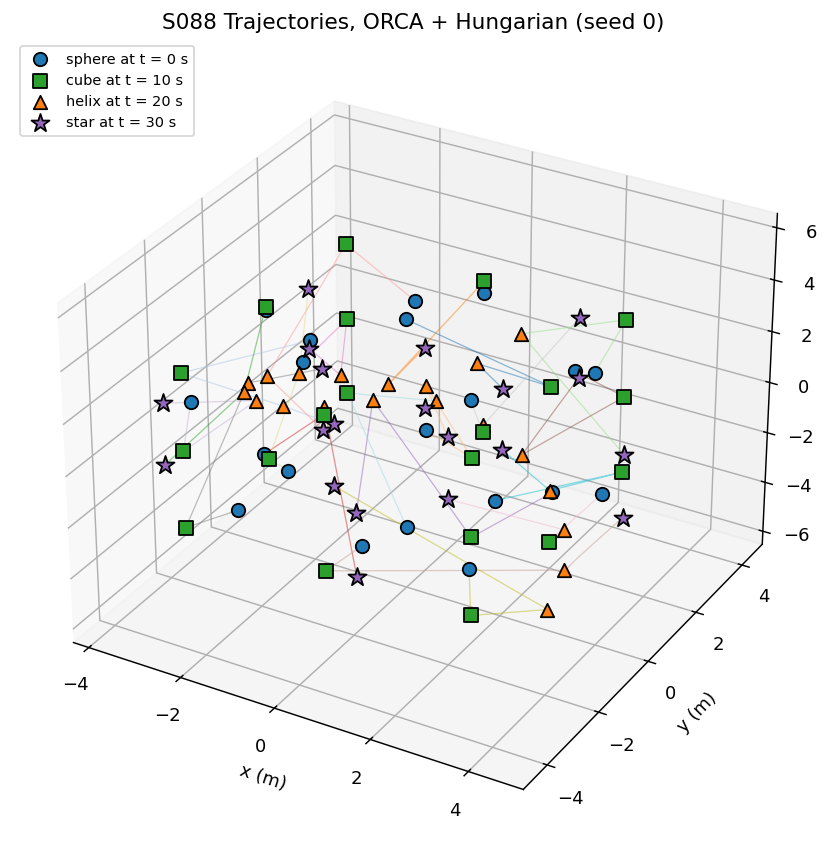
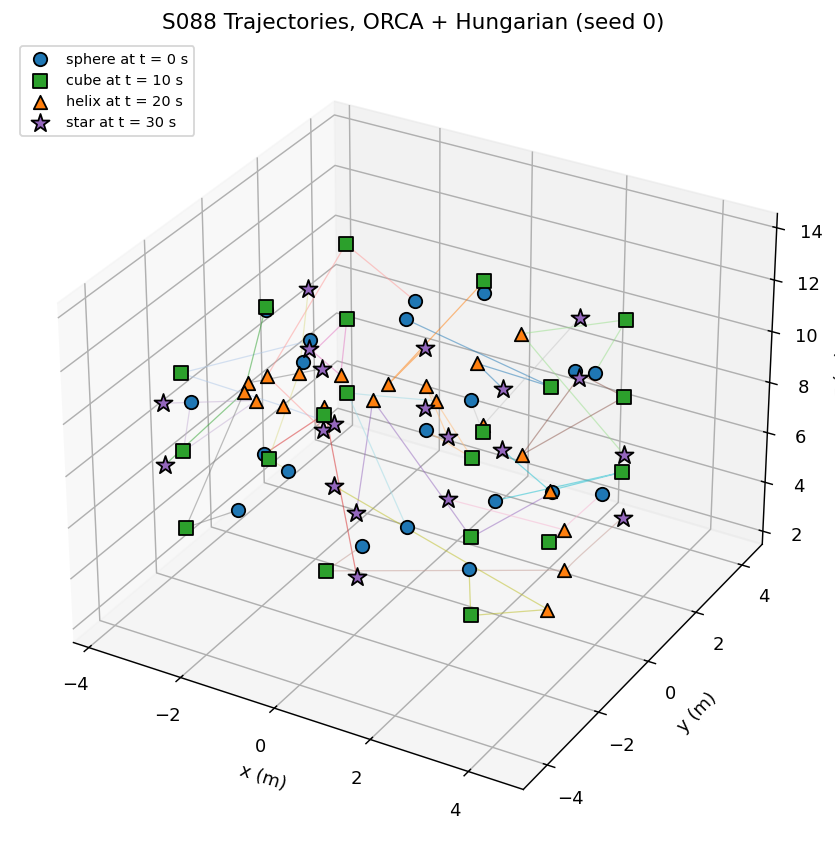
Fix S088 Formation Geometric Shape Morphing: address review follow-ups

diff --git a/src/05_special_entertainment/s088_formation_morphing.py b/src/05_special_entertainment/s088_formation_morphing.py
@@ -47,6 +47,7 @@ R_OUT_STAR     = 4.5      # m
 R_IN_STAR      = 1.8      # m
 Z_STAR         = (-1.2, 1.2)
 INIT_NOISE     = 0.05     # m   std of initial position error around the sphere keypoints
+Z_CENTRE       = 8.0      # m   altitude of the formation centre (all shapes above ground)
 EPS_TARGET     = 0.3      # m   card target for end-of-morph formation error
 N_MC           = 20       # Monte Carlo seeds
 SEEDS          = list(range(N_MC))
@@ -118,8 +119,9 @@ def make_star(n=N_DRONES, r_out=R_OUT_STAR, r_in=R_IN_STAR, z_layers=Z_STAR):
     return np.array(pts, dtype=float)
 
 
-SHAPES = {'sphere': make_sphere(), 'cube': make_cube(),
-          'helix': make_helix(), 'star': make_star()}
+_CENTRE = np.array([0.0, 0.0, Z_CENTRE])
+SHAPES = {'sphere': make_sphere() + _CENTRE, 'cube': make_cube() + _CENTRE,
+          'helix': make_helix() + _CENTRE, 'star': make_star() + _CENTRE}
 
 
 def nn_stats(pts):
@@ -402,6 +404,7 @@ def simulate(seed, use_orca=True, use_hungarian=True):
             assert np.all(np.linalg.norm(vel, axis=1) <= V_MAX + 1e-9), 'speed limit violated'
             assert np.all(np.linalg.norm(dv, axis=1) <= lim + 1e-9), 'acceleration limit violated'
             pos = pos + vel * DT
+            assert np.all(pos[:, 2] >= 0.0), 'drone below ground'
             k += 1
             tau1 = (step + 1) / N_STEPS_MORPH
             des1 = (1.0 - tau1) * p_a + tau1 * p_b
@@ -420,6 +423,7 @@ def simulate(seed, use_orca=True, use_hungarian=True):
         'coll_steps': int(np.sum(n_pairs > 0)), 'coll_pair_steps': int(n_pairs.sum()),
         'min_sep_all': float(min_sep.min()), 'eps_end': np.array(eps_end),
         'smooth': smooth, 'max_speed': float(speed.max()),
+        'min_z': float(log['pos'][:, :, 2].min()), 'max_z': float(log['pos'][:, :, 2].max()),
         'travel_assigned': np.array(travel_assigned), 'path_len': path_len,
         'con_steps': int(n_con.sum()), 'inf_steps': int(n_inf.sum()), 'acc_sat': acc_sat,
     }
@@ -434,7 +438,7 @@ def run_simulation():
             if seed == MAIN_SEED:
                 main[c] = r
             mc[c].append({k: r[k] for k in ('coll_steps', 'coll_pair_steps', 'min_sep_all',
-                                            'eps_end', 'smooth', 'max_speed',
+                                            'eps_end', 'smooth', 'max_speed', 'min_z',
                                             'travel_assigned', 'path_len', 'con_steps',
                                             'inf_steps', 'acc_sat')})
     return main, mc
@@ -472,7 +476,7 @@ def plot_shapes(out_dir):
         for a, b in _outline_edges(name):
             ax.plot(*zip(p[a], p[b]), color='0.5', lw=0.8)
         ax.scatter(p[:, 0], p[:, 1], p[:, 2], color='green', s=40, depthshade=False)
-        ax.set_xlim(-5, 5); ax.set_ylim(-5, 5); ax.set_zlim(-6, 6)
+        ax.set_xlim(-5, 5); ax.set_ylim(-5, 5); ax.set_zlim(Z_CENTRE - 6, Z_CENTRE + 6)
         ax.set_box_aspect((10, 10, 12))
         ax.set_xlabel('x (m)'); ax.set_ylabel('y (m)'); ax.set_zlabel('z (m)')
         ax.set_title(f'{name}: NN mean {mnn:.2f} m, min {minn:.2f} m', fontsize=10)
@@ -596,7 +600,7 @@ def save_animation(main, out_dir, step=3):
     cols = plt.cm.tab20(np.linspace(0, 1, N_DRONES))
     fig = plt.figure(figsize=(7, 6.5))
     ax = fig.add_subplot(111, projection='3d')
-    ax.set_xlim(-5, 5); ax.set_ylim(-5, 5); ax.set_zlim(-6, 6)
+    ax.set_xlim(-5, 5); ax.set_ylim(-5, 5); ax.set_zlim(Z_CENTRE - 6, Z_CENTRE + 6)
     ax.set_xlabel('x (m)'); ax.set_ylabel('y (m)'); ax.set_zlabel('z (m)')
     dots = ax.scatter(pos[0, :, 0], pos[0, :, 1], pos[0, :, 2], c=cols, s=40,
                       depthshade=False)
@@ -650,6 +654,7 @@ if __name__ == '__main__':
         print(f"    Max eps_f during mission   : {r['eps_f'].max():.3f} m")
         print(f"    Smoothness S               : {r['smooth']:.4f} m/s per step")
         print(f"    Max speed                  : {r['max_speed']:.3f} m/s")
+        print(f"    Altitude range             : {r['min_z']:.2f}–{r['max_z']:.2f} m")
         print('    Assigned straight-line travel per transition: ' +
               ', '.join(f'{d:.1f}' for d in r['travel_assigned']) + ' m')
         print(f"    Flown path length (sum)    : {r['path_len']:.1f} m")
@@ -677,7 +682,8 @@ if __name__ == '__main__':
         print(f'    Flown path length          : {_ms([x["path_len"] for x in m], "{:.1f}")} m')
         print(f'    ORCA-active agent-steps    : {_ms([x["con_steps"] for x in m], "{:.1f}")}'
               f', infeasible LP agent-steps: {_ms([x["inf_steps"] for x in m], "{:.1f}")}')
-        print(f'    Max speed over all seeds   : {max(x["max_speed"] for x in m):.3f} m/s')
+        print(f'    Max speed over all seeds   : {max(x["max_speed"] for x in m):.3f} m/s, '
+              f'lowest altitude {min(x["min_z"] for x in m):.2f} m')
         print(f'    Acceleration-limited agent-steps: '
               f'{_ms([x["acc_sat"] for x in m], "{:.1f}")}')
     # Paired comparisons (common random numbers)

diff --git a/outputs/05_special_entertainment/s088_formation_morphing/README.md b/outputs/05_special_entertainment/s088_formation_morphing/README.md
@@ -75,6 +75,7 @@ The velocity change per step is clipped to $a_{max}\,\Delta t$ with $a_{max} = 5
 | Helix radius / rise per drone | 3.0 m / 0.6 m |
 | Star outer / inner radius / layers | 4.5 m / 1.8 m / $z = \pm 1.2$ m |
 | Reference formation distance $d_{form}$ | 2.0 m (plot reference only) |
+| Formation centre altitude (added) | 8.0 m; drones fly between 2.19 and 13.80 m (all seeds and conditions), $z \ge 0$ asserted |
 | Initial position noise | N(0, 0.05 m) per axis around the sphere keypoints |
 | Formation-error target | < 0.3 m |
 | Monte Carlo | 20 seeds (0–19); seed 0 for the time-series figures |
@@ -92,7 +93,7 @@ conda activate drones
 python src/05_special_entertainment/s088_formation_morphing.py
 ```
 
-Runtime ≈ 35 s on a lightly loaded machine (58–83 s measured while other jobs shared the CPU).
+Runtime ≈ 35 s (33–36 s measured in three runs).
 
 ---
 
@@ -118,15 +119,15 @@ ORCA changed the velocity in 164 agent-steps with Hungarian assignment and in 25
 | ORCA + random assignment | 0.3 ± 1.3 | 1/20 (max 6) | 1.0000 m (0.9998) | 0.067 ± 0.022 m | 0.0355 ± 0.0014 | 348.9 ± 18.7 m | 3373.7 ± 438.3 |
 | Random, no ORCA (control) | 363.2 ± 28.3 | 20/20 (max 415) | 0.1528 ± 0.0853 m (0.0295) | 0.000 ± 0.000 m | 0.0338 ± 0.0011 | 348.7 ± 18.6 m | — |
 
-Paired per seed (common random numbers): ORCA + random has fewer collision steps than random without ORCA in 20/20 seeds; ORCA + Hungarian has fewer than ORCA + random in 1/20 seeds and the same (zero) in 19/20; the worst end-of-morph error is lower with Hungarian than with random assignment in 20/20 seeds. The largest speed over all seeds and conditions is 1.752 m/s, so $v_{max} = 3$ m/s never binds.
+Paired per seed (common random numbers): ORCA + random has fewer collision steps than random without ORCA in 20/20 seeds; ORCA + Hungarian has fewer than ORCA + random in 1/20 seeds and the same (zero) in 19/20; the worst end-of-morph error is lower with Hungarian than with random assignment in 20/20 seeds. For the two Hungarian conditions the 20 seeds are effectively **one case repeated** (see below), so these counts compare one Hungarian outcome with 20 random-assignment outcomes. The largest speed over all seeds and conditions is 1.752 m/s, so $v_{max} = 3$ m/s never binds.
 
 **Key findings**:
-- **The proposed method meets every card target**: zero collisions in 20/20 seeds, minimum separation 1.0706 m, worst end-of-morph error 0.003 m (< 0.25 m), smoothness 0.0208 m/s per step (< 0.05).
-- **The card's claim that the "no ORCA" condition shows why ORCA is necessary does not hold here.** With Hungarian assignment the straight-line paths never come closer than 1.0727 m, in all 20 seeds, so the no-ORCA run is collision-free and slightly smoother (0.0205 vs 0.0208). ORCA only nudges velocities (164 agent-steps, path length unchanged at 161.3 m). In the seed-0 metrics panel the closest approach of both Hungarian runs (1.0706 / 1.0727 m) occurs just after t = 20 s, next to the helix formation, whose own keypoint spacing is only 1.114 m.
+- **The proposed method meets every card target**: zero collisions (one effective case, see the last finding), minimum separation 1.0706 m, worst end-of-morph error 0.003 m (< 0.25 m), smoothness 0.0208 m/s per step (< 0.05).
+- **The card's claim that the "no ORCA" condition shows why ORCA is necessary does not hold here.** With Hungarian assignment the straight-line paths never come closer than 1.0727 m, so the no-ORCA run is collision-free and slightly smoother (0.0205 vs 0.0208). ORCA only nudges velocities (164 agent-steps, path length unchanged at 161.3 m). In the seed-0 metrics panel the closest approach of both Hungarian runs (1.0706 / 1.0727 m) occurs just after t = 20 s, next to the helix formation, whose own keypoint spacing is only 1.114 m.
 - **ORCA matters when the assignment is poor.** Random assignment more than doubles the planned travel (348.9 vs 160.7 m) and makes the paths cross. Without ORCA this gives collisions in 20/20 seeds (363.2 ± 28.3 collision timesteps, closest pair 0.0295 m). With ORCA the drones slide around each other along the 1.0 m boundary: minimum separation 1.0000 m, except in one seed where the separation dipped to 0.9998 m for 6 timesteps (a 0.2 mm violation, counted as collisions). The LP was infeasible in 0.7 ± 1.8 agent-steps per run; there linearProgram 4 only minimises the violation.
 - **Hungarian assignment is the cheaper safety measure.** Compared with ORCA + random, it halves the travel, needs ORCA in 164 instead of 3373.7 agent-steps, and lowers the worst formation error from 0.067 to 0.003 m.
 - **The formation-error target is not discriminative.** Every condition stays well below 0.3 m at every morph end (largest 0.121 m, ORCA + random; see the Monte Carlo figure), because the $K_P$ term pulls each drone back onto its moving target. It is reported for completeness; the comparison rests on collisions, separation, travel and ORCA activity.
-- **Monte Carlo spread with Hungarian assignment is almost zero.** The only randomness is the 0.05 m initial noise, which does not change the assignment, so the Hungarian rows have std ≈ 0. The random-assignment rows vary because the permutations change with the seed.
+- **The Monte Carlo is degenerate for the Hungarian conditions.** Their only randomness is the 0.05 m initial noise, which never changes the assignment, so all 20 seeds give practically the same run (std 0.0000 for separation and smoothness). The Hungarian rows therefore report **one case**, not 20 independent wins. Only the random-assignment rows carry real seed-to-seed variation, because the permutations change with the seed.
 
 ### Target Shapes
 
@@ -171,6 +172,7 @@ ORCA + Hungarian, seed 0, 3D view with 2 s trails, 201 frames at 20 fps (every 3
 | No acceleration limit | $\|\Delta\mathbf{v}\| \le a_{max}\Delta t$, $a_{max} = 5$ m/s², all conditions | Physical sanity (no instantaneous velocity jumps); the card asks for bounded acceleration changes. It binds in 57.5 ± 1.4 (ORCA + Hungarian) to 199.8 ± 14.7 (random, no ORCA) of the 12 000 agent-steps per run. |
 | Three conditions, single run | Added a fourth control (random assignment, no ORCA); 20-seed Monte Carlo with common random numbers | Hungarian without ORCA turned out collision-free, so the card's comparison could not show what ORCA prevents. |
 | Smoothness: card code takes the RMS over vector components | RMS of $\|\Delta\mathbf{v}\|$ as in the card's formula | The code value is $1/\sqrt{3}$ of the formula value. |
+| Shapes centred at the origin (drones would fly down to z ≈ −5.7 m) | Formation centre at 8.0 m altitude; $z \ge 0$ asserted | No flight below ground; the geometry and all separations are unchanged by the shift. |
 | Output names `s088_3d_trajectories.png`, `s088_metrics_panel.png`, `s088_animation.gif` | `3d_trajectories.png`, `metrics_panel.png`, `animation.gif`, plus `shapes.png` and `monte_carlo.png` | Repository naming convention. |
 
 ---
